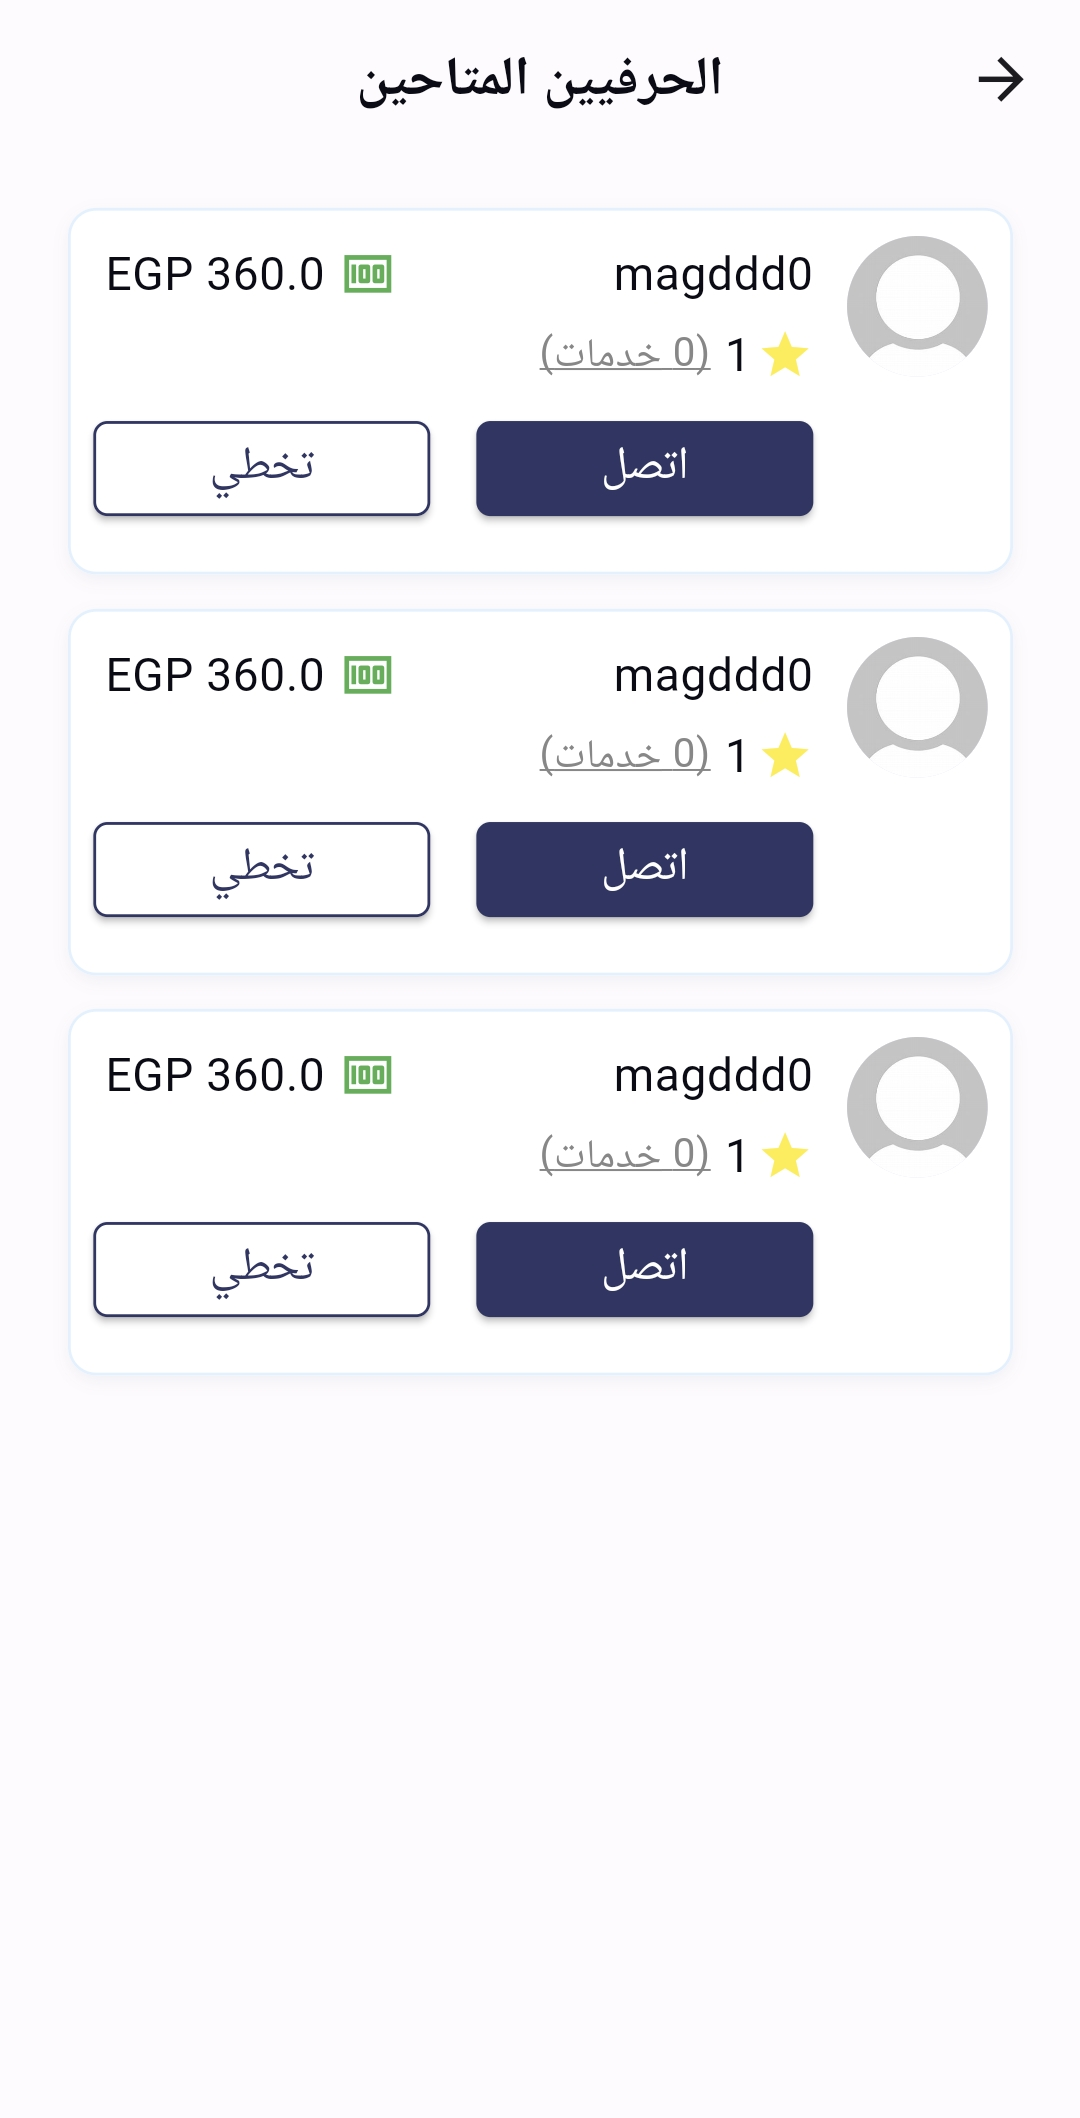
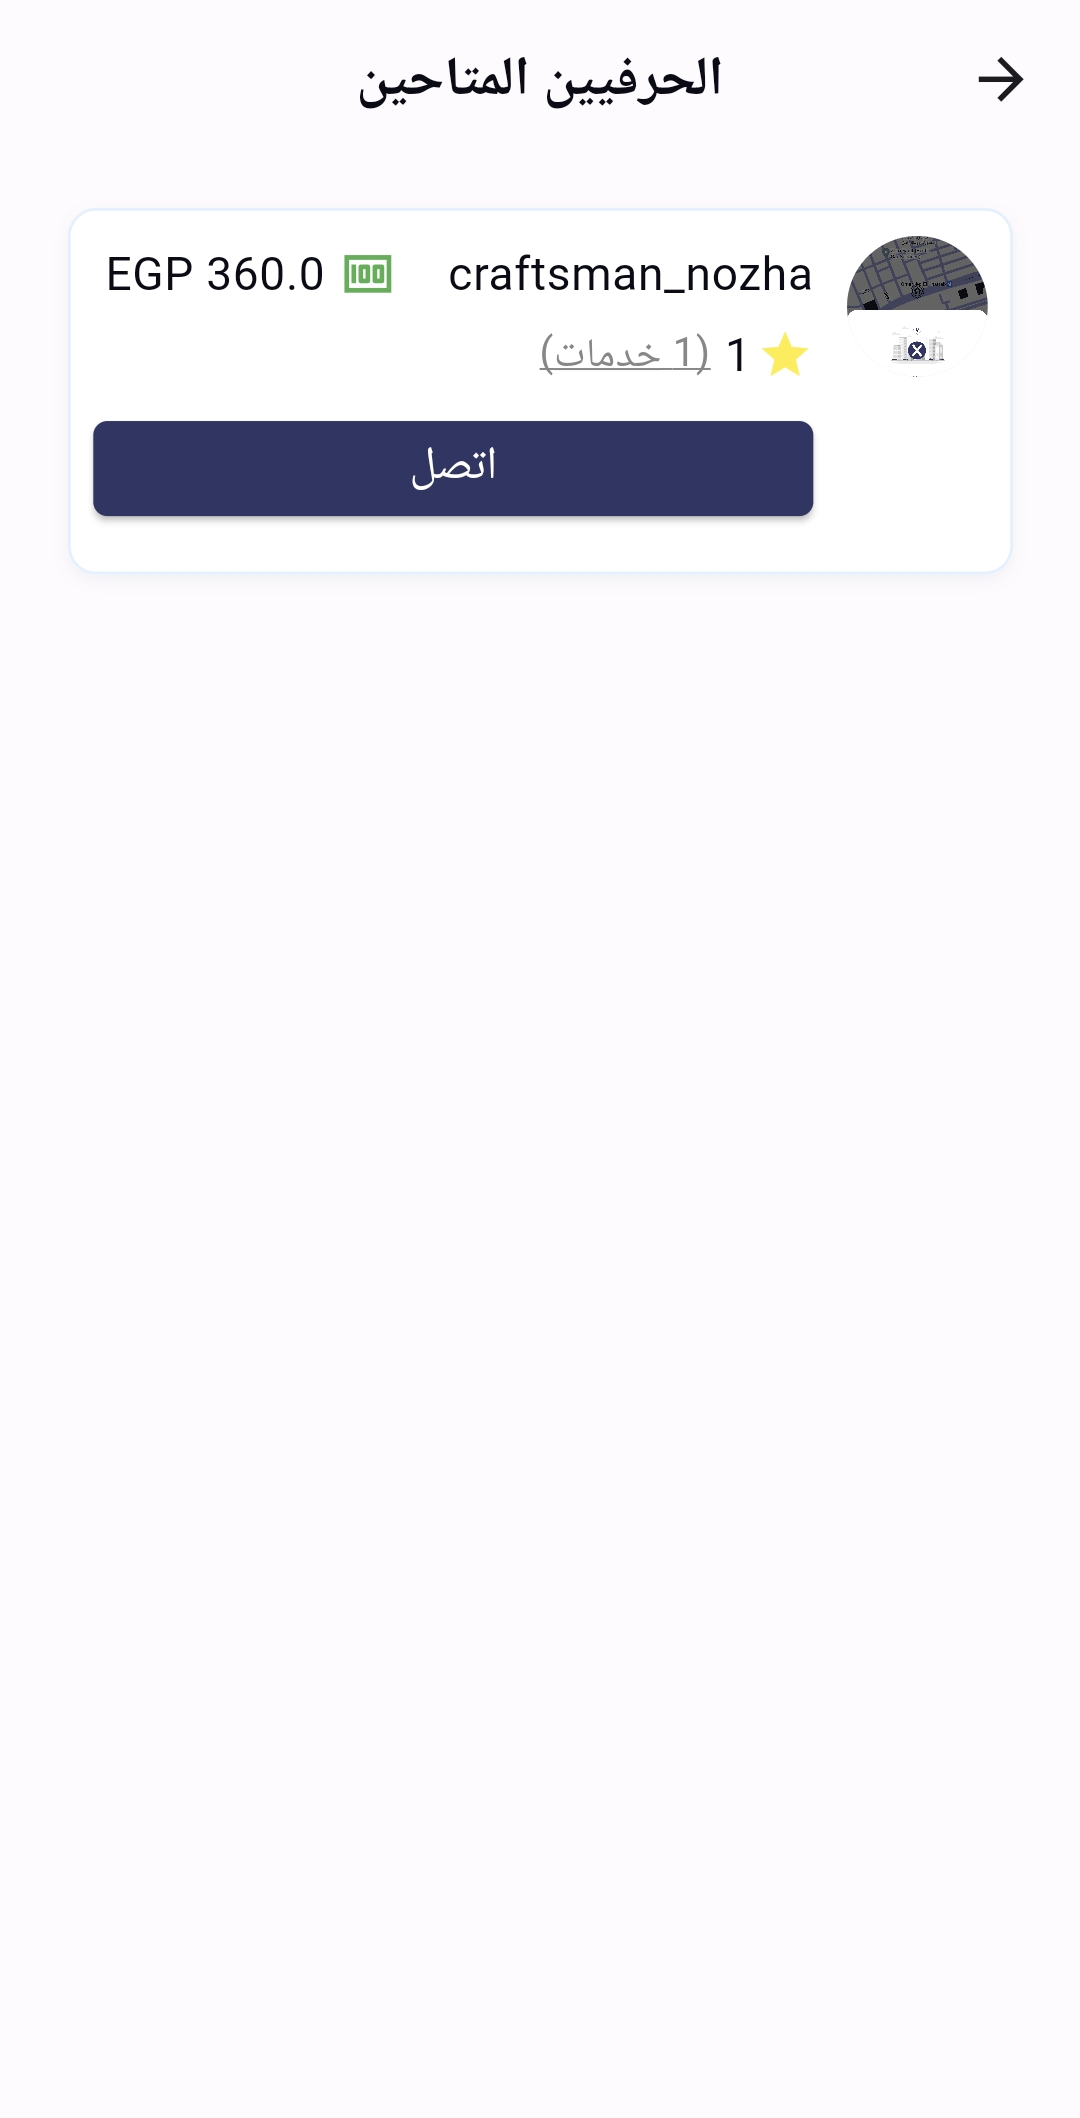
readme update

diff --git a/lib/features/requests/presentation/views/widgets/available_craftmen_card_model.dart b/lib/features/requests/presentation/views/widgets/available_craftmen_card_model.dart
@@ -151,7 +151,7 @@ class _AvailableCraftmenCardState extends State<AvailableCraftmenCard> {
                               },
                               color: ColorManager.primary,
                               height: 35.h,
-                              minWidth: 117.w,
+                              minWidth: 250.w,
                               shape: RoundedRectangleBorder(
                                   borderRadius: BorderRadius.circular(5)),
                               child: Text(

diff --git a/lib/core/networks/api_constants.dart b/lib/core/networks/api_constants.dart
@@ -1,5 +1,5 @@
 class ApiConstants {
-  static const String baseUrl = 'http://192.168.68.88:5000/';
+  static const String baseUrl = 'http://192.168.1.62:5000/';
   static const String login = 'login';
   static const String setLocation = 'Client/SetLocations';
   static const String registerClient = 'ClientRegistration';

diff --git a/README.md b/README.md
@@ -159,7 +159,7 @@ after confirming the request the client is then navigated to a screen showing al
 
 | English | Arabic |
 | ------- | ------ |
-| <img src="assets/docs/Availablecraftman_en.jpg" height="500" width="250"> | <img src="assets/docs/Availablecraftmen_arab.jpg" height="500" width="250"> |
+| <img src="assets/docs/Availablecraftmen_arab.jpg" height="500" width="250"> | <img src="assets/docs/Availablecraftmen_eng.jpg" height="500" width="250"> |
 
 incase the service is not availabe in his area this message will appear
 
@@ -168,6 +168,38 @@ incase the service is not availabe in his area this message will appear
 | <img src="assets/docs/AreaNotAvailab_en.jpg" height="500" width="250"> | <img src="assets/docs/AreaNotAvailable_arab.jpg" height="500" width="250"> |
 
 then he have to click on "cancel request" to return to home screen 
+
+### 5.8 call craftman
+
+when the user clicks confrim then he is navigated to a screen to all the craftman
+
+| English | Arabic |
+| ------- | ------ |
+| <img src="assets/docs/Callcraftmen_ar.jpg" height="500" width="250"> | <img src="assets/docs/Callcraftmen_ar.jpg" height="500" width="250"> |
+
+### 5.9 Ongoing service screen 
+
+this screen appears as long as the service is still ongoing 
+
+| English | Arabic |
+| ------- | ------ |
+| <img src="assets/docs/Ongoingservice_en.jpg" height="500" width="250"> | <img src="assets/docs/Ongoingservice_arab.jpg" height="500" width="250"> |
+
+### 5.10 rating craftmen screen 
+
+after the service is done the clients rates the craftfen on his service 
+
+| English | Arabic |
+| ------- | ------ |
+| <img src="assets/docs/Ratecraftmen_en.jpg" height="500" width="250"> | <img src="assets/docs/Ratecraftmen_arab.jpg" height="500" width="250"> |
+
+### 5.11 payment screen 
+
+after completeing the service tha user is then navigated to the payment screen 
+
+| English | Arabic |
+| ------- | ------ |
+| <img src="assets/docs/Paymentprocess_en.jpg" height="500" width="250"> | <img src="assets/docs/Paymentprocess_arab.jpg" height="500" width="250"> |
 
 ### 5.8 stores screen 
 
@@ -182,6 +214,7 @@ if the client clicks on any store then a screen displaying all items in that sto
 | English | Arabic |
 | ------- | ------ |
 | <img src="assets/docs/StoresItems_en.jpg" height="500" width="250"> | <img src="assets/docs/StoreItems_arab .jpg" height="500" width="250"> |
+
 
 ### 5.9 client profile 
 
